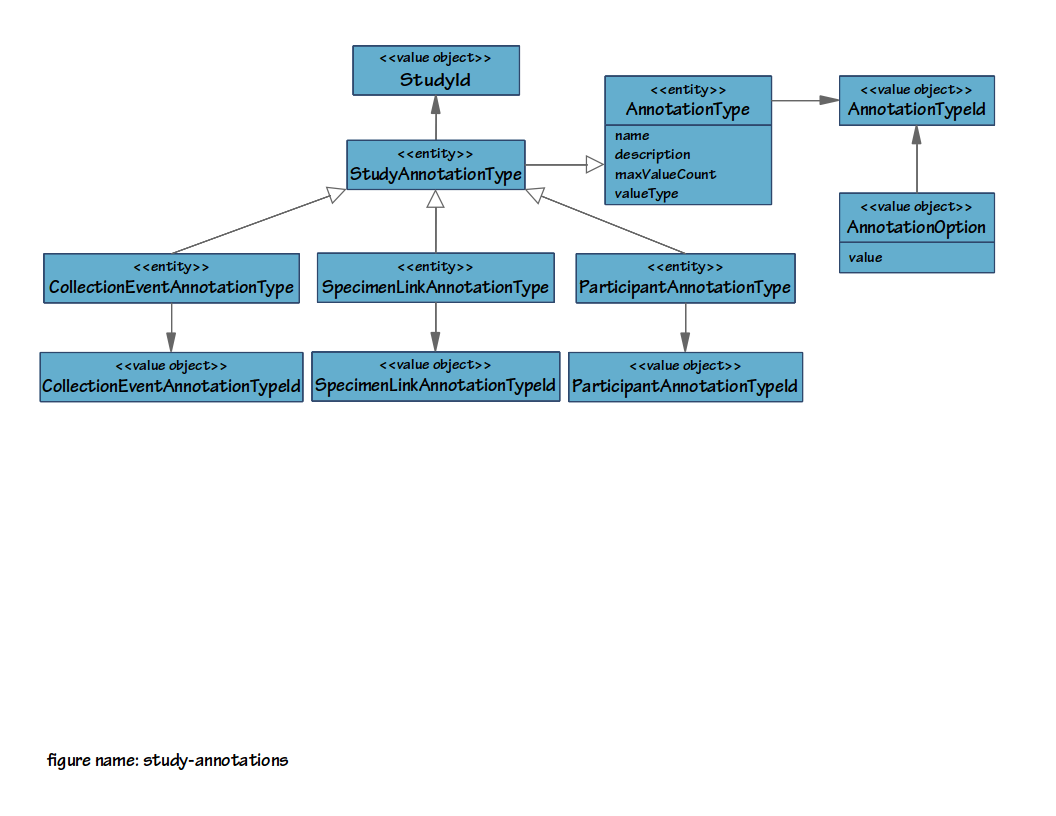
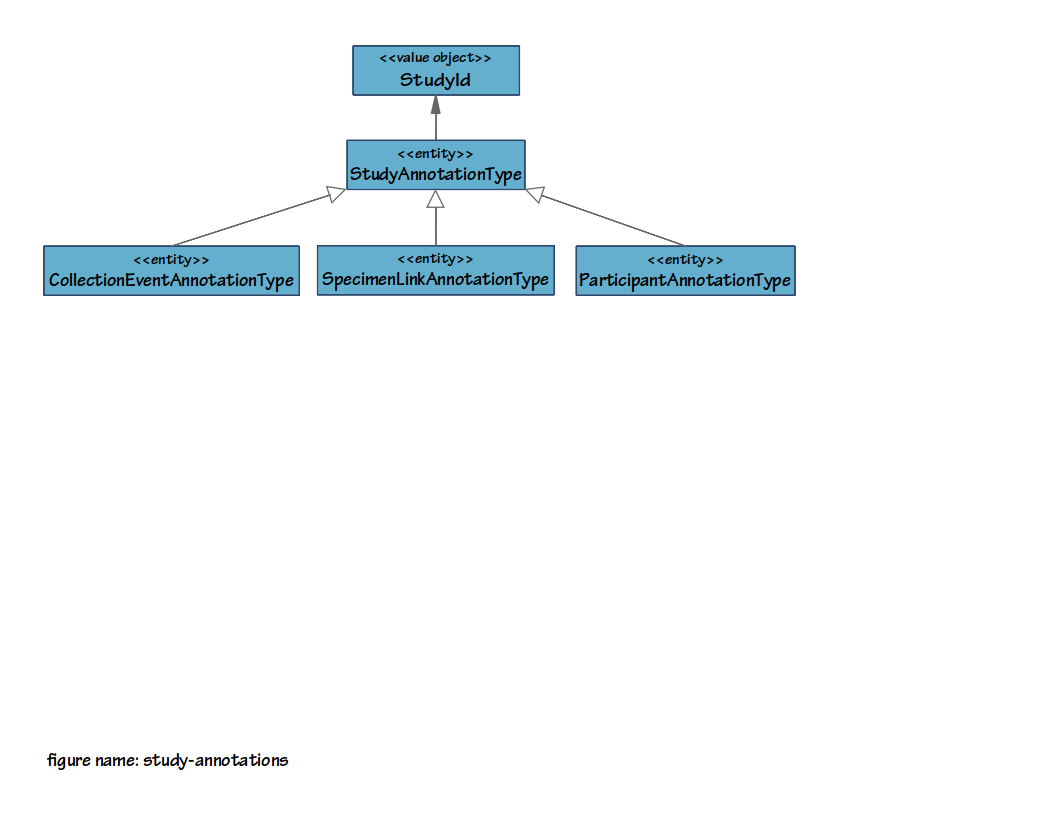
added annotations chapter

Changed region(s): [[0.0312, 0.0919, 0.9688, 0.5208], [0.7812, 0.2145, 0.9688, 0.337], [0.5, 0.2145, 0.5312, 0.2451]]

diff --git a/study-management.tex b/study-management.tex
@@ -66,10 +66,8 @@ allow recording of procedures performed on different types of
 defined pieces of data on collection event types (Section
 \ref{sec:collection-event-type}), processing events (Section
 \ref{sec:processing-type}), and participants (Section
-\ref{sec:study-annotations}).
-
-Annotations are optional and are not a requirement for specimen collection or
-processing.
+\ref{sec:study-annotations}). Annotations are optional and are not a
+requirement for specimen collection or processing.
 
 \subsection*{StudyComment}
 A \entitytarget{StudyComment} contains a textual message and the user that
@@ -175,7 +173,8 @@ defined in the \entitylink{SpecimenGroup}.
 Collection event annotations are defined using
 \valobjtarget{CollectionEventAnnotationType}. One or more of these can be
 defined for the study. A single collection event annotation type can be used in
-multiple collection event types.
+multiple collection event types. When \compfont{required} is set to
+\compfont{true}, the annotation value is not allowed to be empty.
 
 \section{ProcessingType Details}
 \label{sec:processing-type}
@@ -236,63 +235,35 @@ and output specimen group.
 \subsection*{SpecimenLinkTypeAnnotationType}
 
 A \valobjtarget{SpecimenLinkTypeAnnotationType} is used to tie a specimen
-link annotation type to a specimen link type. When \compfont{required} is set to
-\compfont{true} the annotation value is not allowed to be empty.
+link annotation type to a specimen link type.
 
 \section{Study Annotations}
 \label{sec:study-annotations}
 
 Figure \ref{fig:study-annotations} show the possible annotations types that can
 be configured for a study. Annotations types must be defined before they can be
-assigned to the respective entity.
+assigned to the respective entity. See Chapter \ref{chap:annotations} for more
+details on how annotations are configured and used.
 
 \begin{figure}[H]
   \centering
-  \includegraphics[trim={9mm 108mm 16mm 9mm}, clip,
+  \includegraphics[trim={9mm 135mm 68mm 9mm}, clip,
     width=0.9\textwidth]{images/study-annotations}
   \caption{Study annotation entities}
   \label{fig:study-annotations}
 \end{figure}
 
-An annotation type has a short identifying name that is unique to the study. A
-description can also be defined but is optional. The \compfont{valueType} can be
-one of:
-
-\begin{table}[!htbp]
-\renewcommand{\arraystretch}{1.1}
-\begin{tabularx}{\textwidth}{@{\hspace{6pt}} >{\ttfamily}l X }
-
-  String & an alphanumeric string.\\
-  Number & a number, either integer or decimal.\\
-  Date & date string, usually of the form \emph{YYYY-MM-DD HH:MM}.\\
-  Select & a value selected from a predefined list.\\
-
-\end{tabularx}
-\end{table}
-
-When \compfont{valueType} is assigned to be of type \compfont{Select},
-\compfont{maxValueCount} is the number of of items that can be selected from the
-predefined list. If only one value is allowed, then \compfont{maxValueCount} has
-a value of 1. If an unlimited number of values are allowed then,
-\compfont{maxValueCount} has a value of 0.
-
-One or more \entitylink{AnnotationOption}s are created to add select options to
-a \compfont{Select} annotation type.
-
 \subsection*{CollectionEventTypeAnnotationType}
 
-A \valobjtarget{CollectionEventTypeAnnotationType} is used to to configure an
-annotation to be used by collection event types. When \compfont{required} is set
-to true the annotation value is not allowed to be empty.
-
-An example of an annotation on a collection even type can be consent given by
-the participant at the collection visit.
+A \entitytarget{CollectionEventTypeAnnotationType} is used to to configure an
+annotation to be used by collection event types. An example of an annotation on
+a collection even type can be consent given by the participant at the
+collection visit. \valobjtarget{CollectionEvent
 
 \subsection*{SpecimenLinkAnnotationType}
 
 A \valobjtarget{SpecimenLinkAnnotationType} is used to to configure an
-annotation to be used with specimen link types. When \compfont{required} is set
-to true the annotation value is not allowed to be empty.
+annotation to be used with specimen link types.
 
 An example of an annotation type on a specimen link can be the PMBC count on
 the collected specimen.

diff --git a/specimen-collection.tex b/specimen-collection.tex
@@ -10,7 +10,6 @@ A participant has a unique identifier that is used to identify the participant
 in the system. This identifier is not the same as the
 \valobjlink{ParticipantId} value object used by the domain model.
 
-
 \begin{figure}[H]
   \centering
   \includegraphics[trim={10mm 75mm 102mm 10mm}, clip,
@@ -26,24 +25,8 @@ been recorded.
 
 \subsection*{ParticipantAnnotation}
 This entity holds the annotation value for the
-\entitylink{ParticipantAnnotationType} defined in the study. For a single
-annotation, the \emph{Value Field} used (i.e. \compfont{stringValue},
-\compfont{numberValue}, or \compfont{selectedValue}) depends on the annotation
-type's \compfont{valueType} (see Section \ref{sec:study-annotations}). The
-unused fields are assigned the \compfont{null} value.
-
-\begin{table}[!htbp]
-\renewcommand{\arraystretch}{1.1}
-\begin{tabularx}{\textwidth}{l l}
-  \sffamily{\textbf{ValueType}} & \sffamily{\textbf{Value field}}\\
-  \hline
-  String & \compfont{stringValue}\\
-  Number & \compfont{numberValue}\\
-  Date & \compfont{numberValue} and stored as the number of seconds\\
-  Select & \compfont{selectedValue}\\
-
-\end{tabularx}
-\end{table}
+\entitylink{ParticipantAnnotationType} defined in the study. See Chapter
+\ref{chap:annotations} for how annotation values are recorded.
 
 \subsection*{ParticipantComment}
 A \entitytarget{ParticipantComment} contains a textual message and the user
@@ -52,11 +35,10 @@ meta data. A participant can have one or more comments.
 
 \section{CollectionEvent Details}
 
-The \entitytarget{CollectionEvent} is used to record a visit to a
-\entitylink{Center} (e.g. a clinic) by one of the study's participants. A
-collection event must have a \entitylink{CollectionEventType} as defined by
-the study. See Section \ref{sec:collection-event-type} for more details on
-the collection event type.
+The \entitytarget{CollectionEvent} is used to record a visit by a participant
+to a \entitylink{Center} (e.g. a clinic). A collection event must have a
+\entitylink{CollectionEventType} as defined by the study. See Section
+\ref{sec:collection-event-type} for more details on the collection event type.
 
 A collection event also has a \compfont{visitNumber} that is an integer and a
 \compfont{timeDone} which is a time stamp for when the participant made the
@@ -72,19 +54,21 @@ visit to the center. The format for the time stamp is: YYYY-MM-DD HH:MM.
 
 \subsection*{Specimen}
 One or more specimens may have been collected from the participant. Each
-specimen is recorded with the collection event. More information for this
-entity is given in Section \ref{sec:specimen}.
+specimen is recorded with the collection event. More information for the
+\entitylink{Specimen} aggregate root is given in Chapter
+\ref{chap:specimen-processing}.
 
 \valobjtarget{SpecimenCollectionEvent} is used to associate a specimen to a
-collection event. It is possible, although not recommended, that a specimen
-have multiple collection events for the case when specimens are trasnferred
-from one study to another. By having multiple collection events the information
-from the original collection event is not lost for the specimen.
+collection event. It is possible that a specimen has multiple collection events
+for the case when specimens are trasnferred from one study to another. By
+having multiple collection events, the information from the original collection
+event is not lost for the specimen. It is not recommended that a specimen have
+multiple collection events within the same study.
 
 \subsection*{CollectionEventAnnotation}
 This entity holds the annotation value for the
-\entitylink{CollectionEventTypeAnnotationType} defined in the study. This field
-is similar to the \entitylink{ParticipantAnnotation}. See above for how it used.
+\entitylink{CollectionEventTypeAnnotationType} defined in the study. See Chapter
+\ref{chap:annotations} for how annotation values are recorded.
 
 \subsection*{CollectionEventComment}
 A \entitytarget{CollectionEventComment} contains a textual message and the user

diff --git a/main.tex b/main.tex
@@ -225,6 +225,7 @@
 \include{study-management}
 \include{specimen-collection}
 \include{specimen-processing}
+\include{annotations}
 
 %----------------------------------------------------------------------------------------
 % Bibliography

diff --git a/specimen-processing.tex b/specimen-processing.tex
@@ -1,4 +1,5 @@
 \chapter{Specimen Processing and Storage}
+\label{chap:specimen-processing}
 
 \begin{figure}[H]
   \centering
